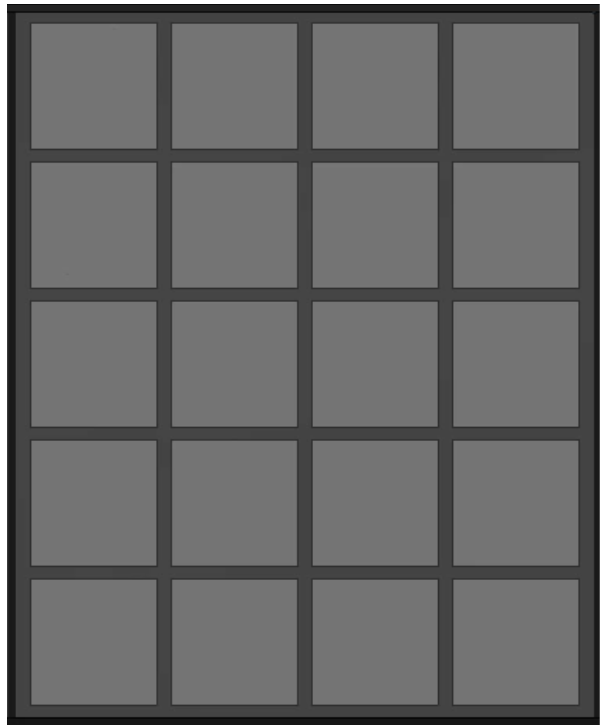
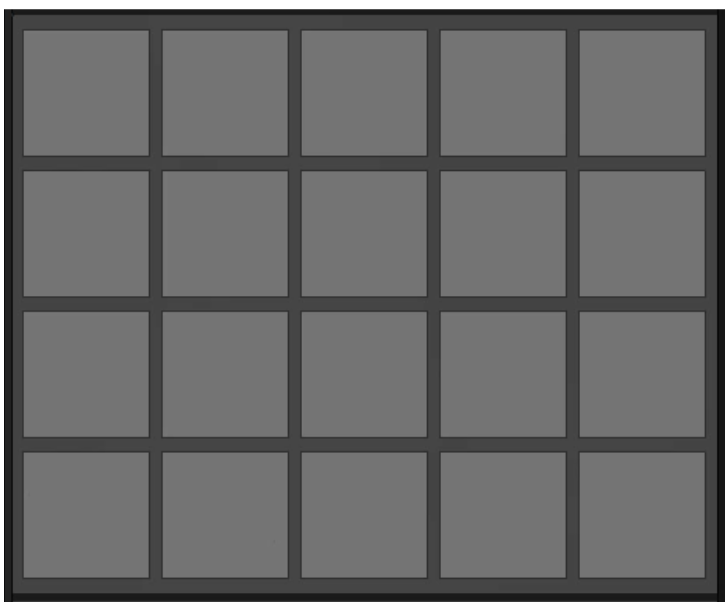
Inventory Progress
inventory now opens on e, and dynamically increases or decreases, items go where they should

diff --git a/Assets/Player/Player.cs b/Assets/Player/Player.cs
@@ -8,6 +8,8 @@ public class Player : MonoBehaviour
 
     private Inventory inventory;
     public UI_Inventory ui_inventory;
+    public int slotsCount;
+    private GameObject ui_pockets;
     private ItemSlot activeSlot;
     private Item heldItem;
 
@@ -44,7 +46,9 @@ public class Player : MonoBehaviour
         currentHealth = maxHealth;
         sprender = gameObject.GetComponent<SpriteRenderer>();
 
-        inventory = new Inventory(5, ui_inventory);
+        inventory = new Inventory(slotsCount, ui_inventory);
+        this.ui_pockets = ui_inventory.ui_pockets;
+        ui_pockets.SetActive(false);
         activeSlot = inventory.ActivateSlot(0);
         heldItem = inventory.GetItemIn(activeSlot);
     }
@@ -93,17 +97,22 @@ public class Player : MonoBehaviour
             RefreshAnimations();
         }
 
+        // Open Inventory Pockets
+        if(Input.GetKeyDown(KeyCode.E)){
+            if(ui_pockets.activeSelf == false){
+                ui_pockets.SetActive(true);
+            }
+            else{
+                ui_pockets.SetActive(false);
+            }
+        }
+
         // Use Item in Active Slot
         if(Input.GetMouseButtonDown(0) && heldItem != null && Time.realtimeSinceStartup > heldItem.GetLastUse() + heldItem.cooldown + heldItemFire.length){
             heldItem.SetLastUse(Time.realtimeSinceStartup);
             Vector3 offset = transform.right * heldItem.offset;
 
             Instantiate(heldItem.use, transform.position + offset, transform.rotation, gameObject.transform);
-        }
-
-        if(currentHealth < 0) {
-            Debug.Log("You Died!");
-            Destroy(gameObject);
         }
     }
 
@@ -116,7 +125,7 @@ public class Player : MonoBehaviour
             inventory.AddItem(item);
             heldItem = inventory.GetItemIn(activeSlot);
 
-            // Hide the 
+            // Hide the item
             collider.gameObject.SetActive(false);
 
             RefreshAnimations();
@@ -135,6 +144,12 @@ public class Player : MonoBehaviour
     public void Hurt(float damage) {
         currentHealth = Mathf.Clamp(currentHealth - damage, -1, maxHealth);
         StartCoroutine(Invulnerability()); // Needs research ##########
+
+        // Die
+        if(currentHealth < 0) {
+            Debug.Log("You Died!");
+            Destroy(gameObject);
+        }
     }
 
     private IEnumerator Invulnerability(){ // Needs research ##########

diff --git a/Assets/Player/Inventory/UI_Inventory.cs b/Assets/Player/Inventory/UI_Inventory.cs
@@ -33,11 +33,9 @@ public class UI_Inventory : MonoBehaviour
         for(int i = 2; i < inventory.itemSlots; i++){
             slot = Instantiate(itemSlot, ui_pockets.transform);
             slot.name = "ItemSlot" + i;
-            slot.GetComponent<RectTransform>().anchoredPosition += new Vector2(slot.width * (i-2)  + slot.offset * (i-2), 0);
 
             inventory.AddItemSlot(slot);
         }
-        
     }
 
     public void RefreshInventory(){
